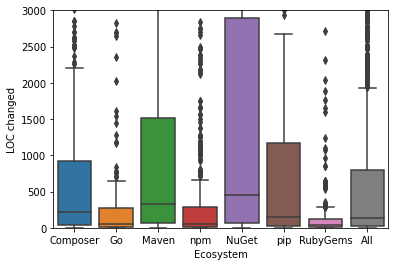
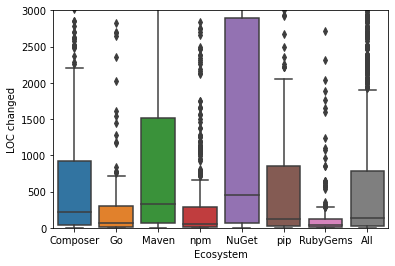
change in version diffing for python

diff --git a/data_explore/versiondiff.py b/data_explore/versiondiff.py
@@ -3,7 +3,7 @@ import common, sql
 from multiprocessing import Pool
 from bs4 import BeautifulSoup as BS
 import os, time
-libraryio_token = os.environ['libraryio_token']
+#libraryio_token = os.environ['libraryio_token']
 
 temp = 'select * from file_extensions'
 temp = sql.execute(temp)
@@ -30,7 +30,7 @@ def get_release_data():
             and ri.id not in (select distinct release_id from version_diff)
             and ri.id not in (select distinct release_id from version_diff_with_no_head_commit)
             and ri.id not in (select distinct release_id from version_diff_with_no_package_file)
-            and p.ecosystem = 'NuGet'
+            and p.ecosystem = 'pip'
             order by rand()
             '''
     results = sql.execute(q,(common.manualcheckup,common.norepo))
@@ -58,9 +58,9 @@ def pvd_mp(item):
     
 
     try:
-        files = get_version_diff_stats(eco, package, repo_url, old_version, new_version)
+        diff_stats = get_version_diff_stats(eco, package, old_version, new_version)
+        files = diff_stats['diff']
         #TODO: need to filter out files with zero loc change (file renamed) as logic got updated in the latest version-differ
-
         if files is None:
             q = 'insert into version_diff_with_no_head_commit values (%s)'
             args = [release_id]
@@ -85,9 +85,9 @@ def pvd_mp(item):
 def process_version_diff():
     results = get_release_data()
     print(len(results))
-
     pool  = Pool(os.cpu_count())
     pool.map(pvd_mp, results) 
+
 
 
     
@@ -107,7 +107,7 @@ def file_is_a_source_file(file):
 rq3 = {}
 
 def process_rq3():
-    q = '''select distinct release_id from version_diff'''
+    q = '''select distinct release_id from version_diff where release_id not in (select release_id from rq3)'''
     rids = sql.execute(q)
     for rid in rids:
         rid = rid['release_id']
@@ -244,6 +244,6 @@ def process_package_usage():
 
 
 if __name__ == '__main__':
-    process_package_usage()
-
+    #process_version_diff()
+    process_rq3()
     
